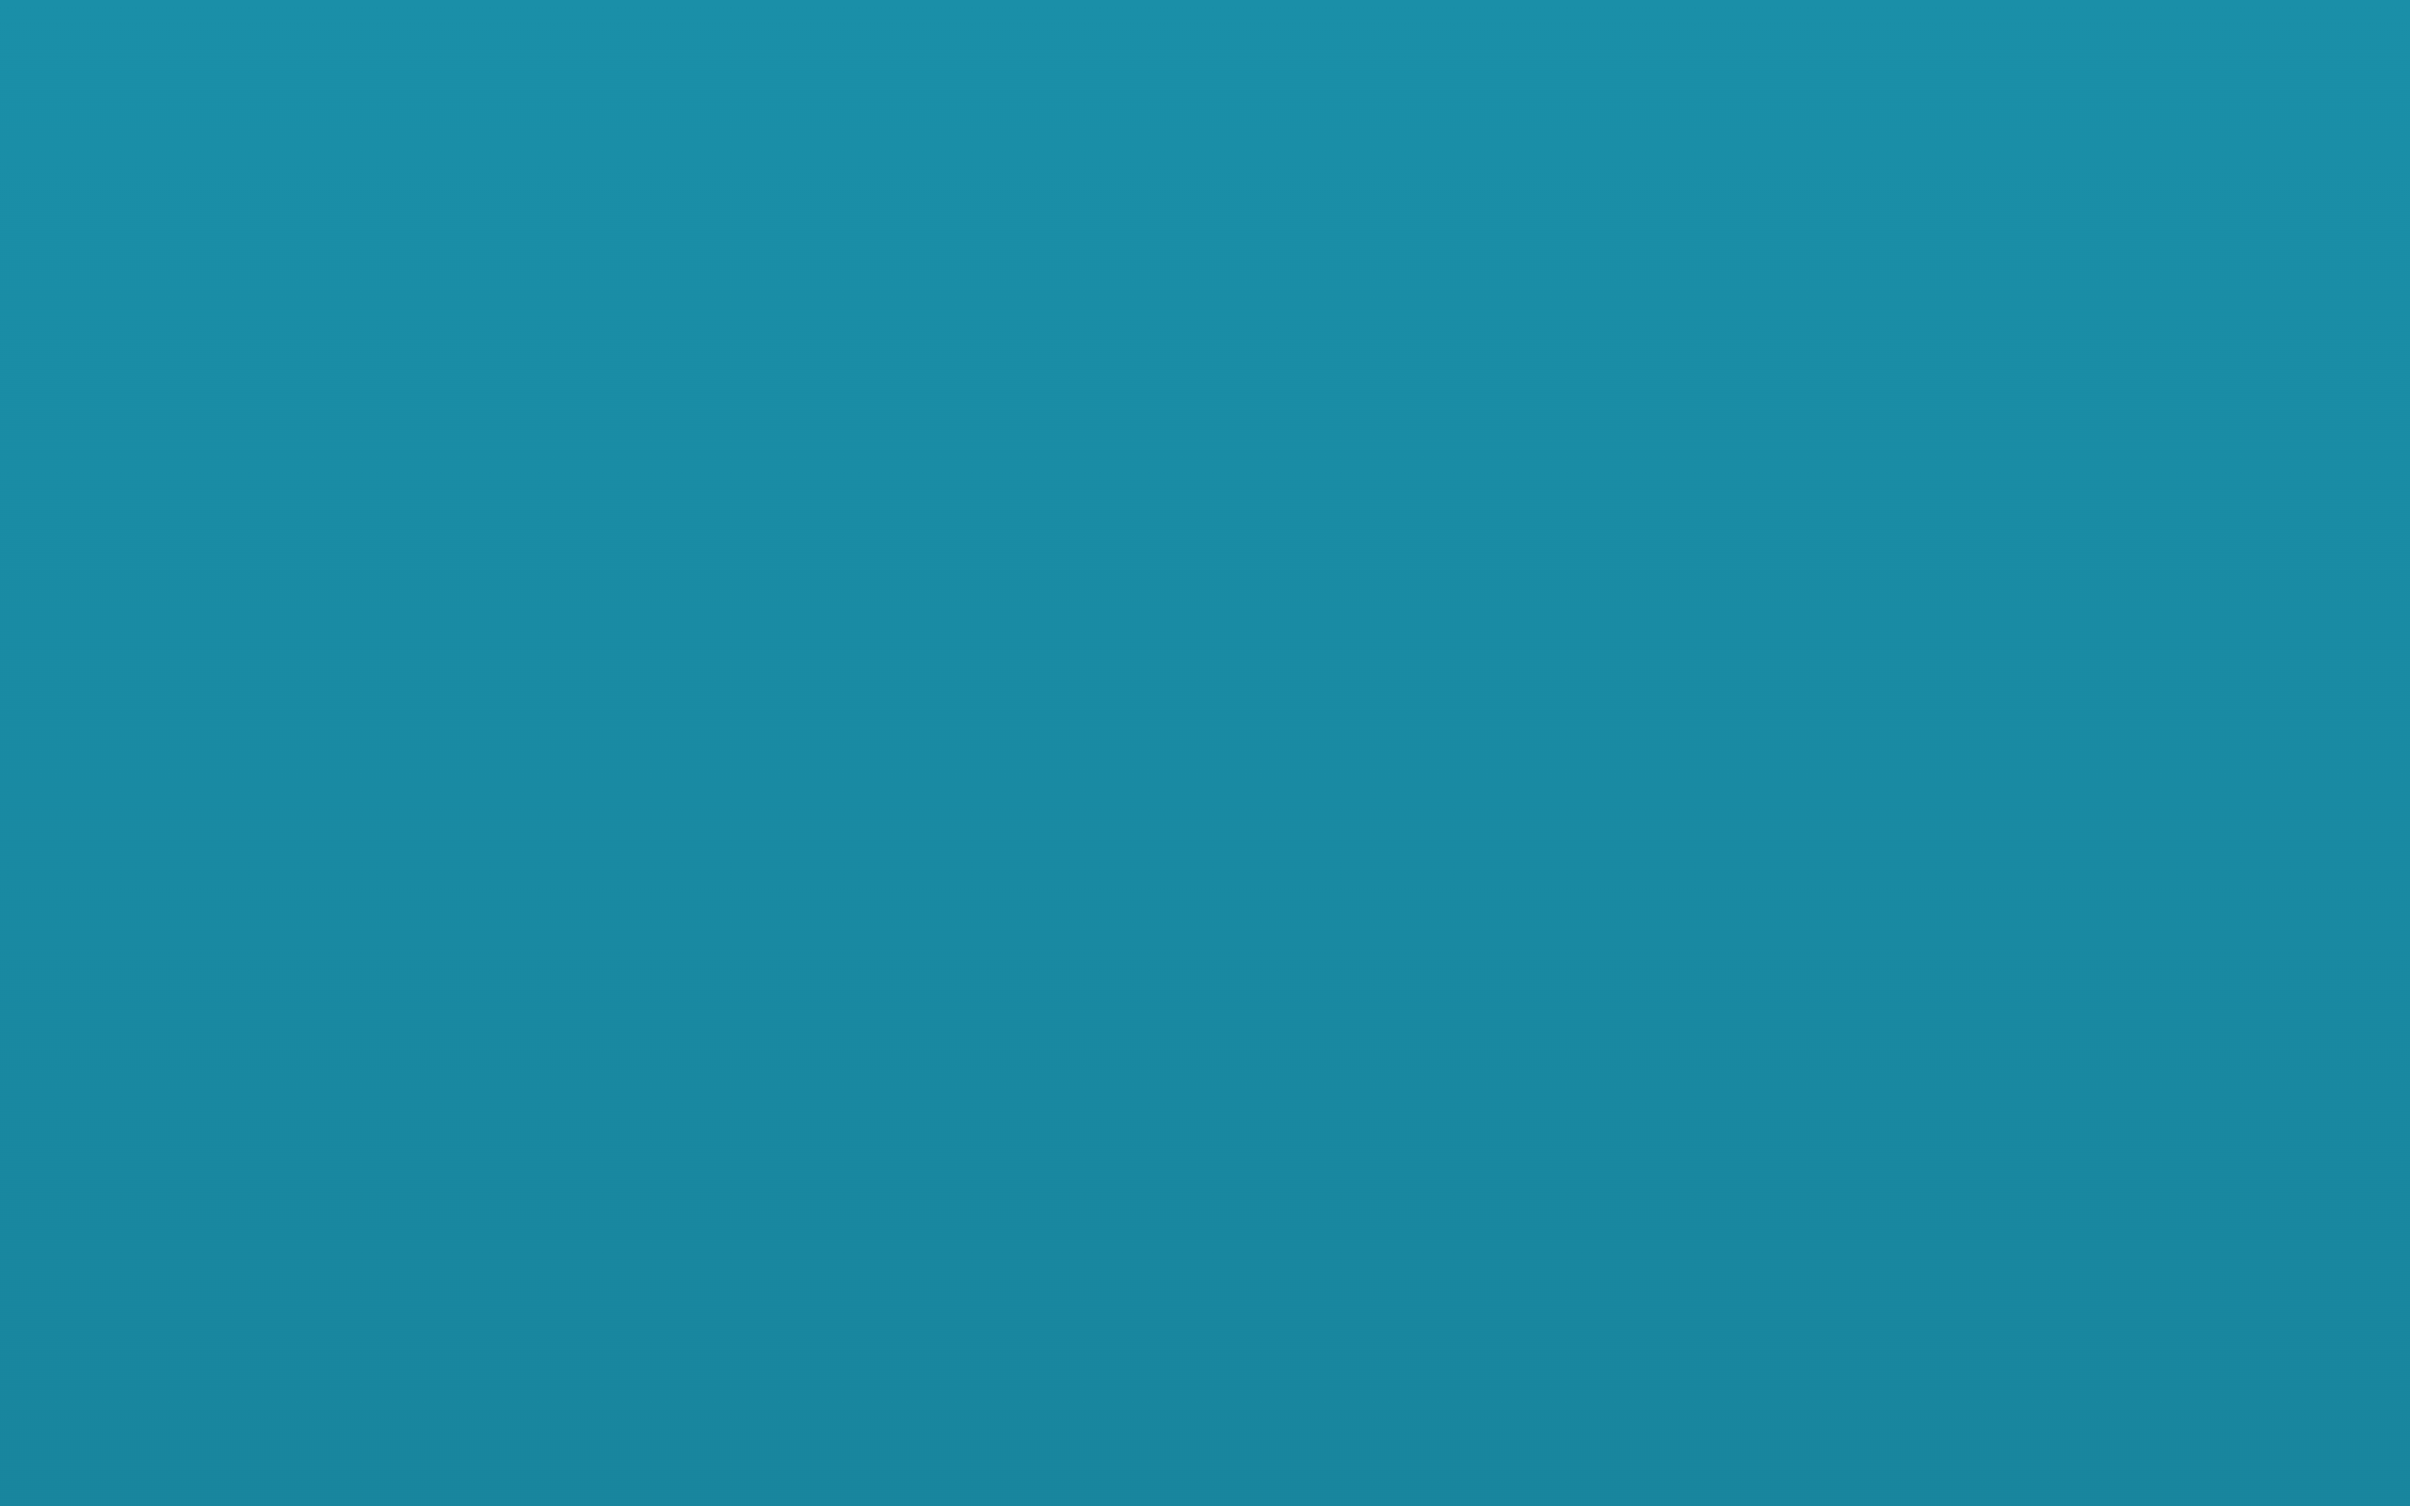
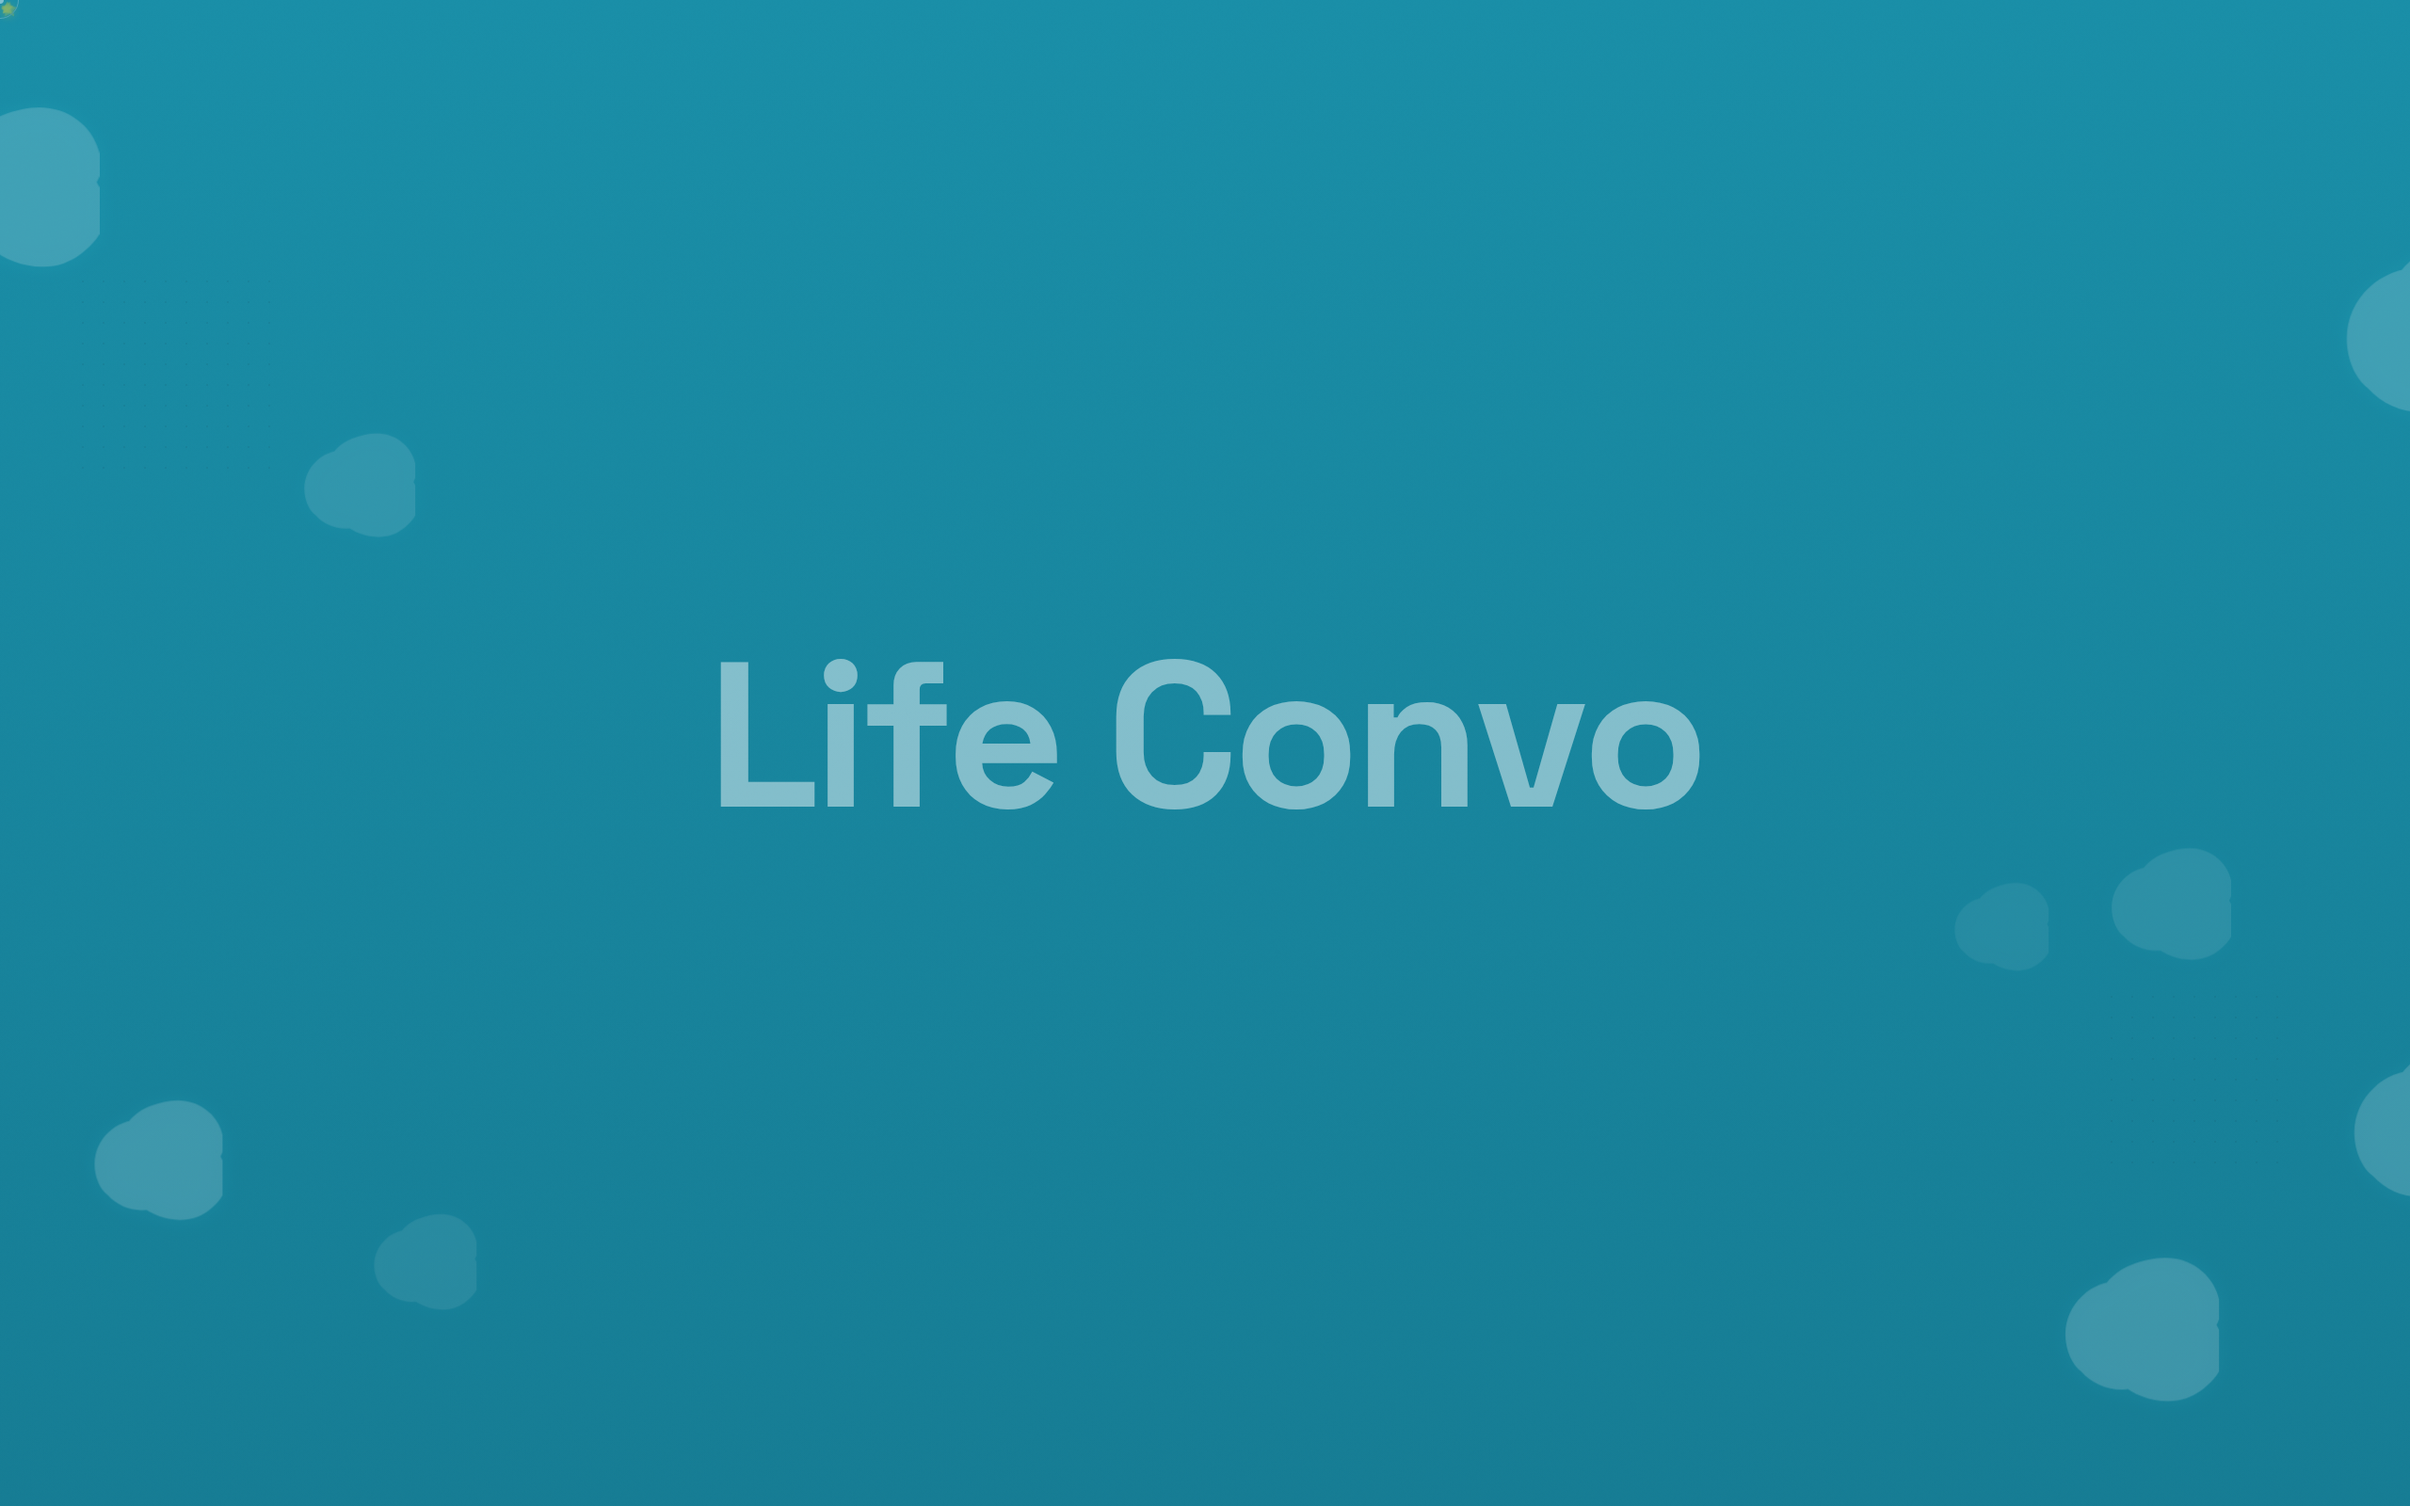
Add LUNO project to featured and all-projects sections, fix LifeConvo screenshot
- LUNO replaces LifeConvo's position in What I Build (LifeConvo moved to end)
- New LUNO screenshot from lunolearn.vercel.app
- Replaced flat LifeConvo placeholder with real capture
- Added LUNO card to upper section of All Projects page
- Add kyza-screen.png, remove unused logo1.png

diff --git a/index.html b/index.html
@@ -141,10 +141,10 @@
             <h2 class="huge-text text-white opacity-20">WHAT I BUILD</h2>
         </div>
 
-        <!-- Horizontal Scroll Wrapper -->
-        <div class="horizontal-scroll-wrapper" id="projects-wrapper">
-            <!-- 4 Projects -> 400vw -->
-            <div class="horizontal-scroll-content flex h-screen w-max" id="projects-content">
+            <!-- Horizontal Scroll Wrapper -->
+            <div class="horizontal-scroll-wrapper" id="projects-wrapper">
+                <!-- 6 Projects -> 600vw -->
+                <div class="horizontal-scroll-content flex h-screen w-max" id="projects-content">
                 
                 <!-- Project 0: Kyza -->
                 <div class="panel w-screen h-screen shrink-0 flex items-center justify-center p-6 md:p-12">
@@ -241,12 +241,36 @@
                     </div>
                 </div>
 
-                <!-- Project 4: LifeConvo -->
+                <!-- Project 4: LUNO -->
                 <div class="panel w-screen h-screen shrink-0 flex items-center justify-center p-6 md:p-12">
                     <div class="w-full h-full md:w-[80vw] md:h-[80vh] bg-light rounded-3xl overflow-hidden relative group hover-target flex items-center justify-center border border-white/10 shadow-2xl">
                         <!-- Background Image -->
                         <div class="absolute inset-0 z-0 scale-100 group-hover:scale-100 transition-transform duration-1000">
-                            <img src="assets/images/lifeconvo-screen.png" class="w-full h-full object-cover opacity-30 group-hover:opacity-60 transition-opacity duration-1000">
+                            <img src="assets/images/luno-screen.png" alt="LUNO Language Learning Platform" class="w-full h-full object-cover opacity-30 group-hover:opacity-60 transition-opacity duration-1000">
+                            <div class="absolute inset-0 bg-darker/80 group-hover:bg-darker/40 transition-colors duration-700"></div>
+                        </div>
+                        
+                        <div class="relative z-20 p-8 md:p-16 w-full text-center">
+                            <span class="text-accent font-black uppercase tracking-[0.3em] text-xs md:text-sm mb-6 block drop-shadow-lg">Gamified Language Learning Platform</span>
+                            <h3 class="text-5xl md:text-8xl font-display font-black tracking-tighter mb-12 drop-shadow-2xl">LUNO</h3>
+                            <div class="flex flex-wrap justify-center gap-6">
+                                <a href="https://lunolearn.vercel.app" target="_blank" class="bg-white text-darker px-8 py-4 rounded-full text-sm font-black uppercase tracking-widest hover:bg-accent hover:text-white transition-colors hover-target flex items-center gap-2">
+                                    <i data-lucide="external-link" class="w-5 h-5"></i> Live Preview
+                                </a>
+                                <a href="https://github.com/KhizarDoingProgramming/LUNO" target="_blank" class="border-2 border-white text-white px-8 py-4 rounded-full text-sm font-black uppercase tracking-widest hover:bg-white hover:text-darker transition-colors hover-target flex items-center gap-2 backdrop-blur-sm">
+                                    <i data-lucide="github" class="w-5 h-5"></i> Source Code
+                                </a>
+                            </div>
+                        </div>
+                    </div>
+                </div>
+
+                <!-- Project 5: LifeConvo -->
+                <div class="panel w-screen h-screen shrink-0 flex items-center justify-center p-6 md:p-12">
+                    <div class="w-full h-full md:w-[80vw] md:h-[80vh] bg-light rounded-3xl overflow-hidden relative group hover-target flex items-center justify-center border border-white/10 shadow-2xl">
+                        <!-- Background Image -->
+                        <div class="absolute inset-0 z-0 scale-100 group-hover:scale-100 transition-transform duration-1000">
+                            <img src="assets/images/lifeconvo-screen.png" alt="LifeConvo Real-Time Community Platform" class="w-full h-full object-cover opacity-30 group-hover:opacity-60 transition-opacity duration-1000">
                             <div class="absolute inset-0 bg-darker/80 group-hover:bg-darker/40 transition-colors duration-700"></div>
                         </div>
                         

diff --git a/projects.html b/projects.html
@@ -78,6 +78,24 @@
         </div>
     </div>
 </div>
+<!-- LUNO (newest live project) -->
+<div class="bg-light rounded-3xl overflow-hidden group hover-target border border-white/5 reveal-up relative">
+    <div class="absolute inset-0 z-0">
+        <img src="assets/images/luno-screen.png" alt="LUNO Language Learning Platform" class="w-full h-full object-cover opacity-10 group-hover:opacity-20 transition-opacity duration-700" />
+    </div>
+    <div class="p-8 relative z-10 flex flex-col h-full justify-between min-h-[300px]">
+        <div>
+            <h3 class="text-3xl font-display font-black mb-2">LUNO</h3>
+            <p class="text-white/60 mb-8">Gamified language learning platform for Russian &amp; German with AI tutoring, spaced repetition, and XP progression.</p>
+        </div>
+        <div class="flex flex-wrap gap-4">
+            <a href="https://lunolearn.vercel.app" target="_blank" class="bg-white text-darker px-6 py-2 rounded-full text-xs font-black uppercase tracking-widest hover:bg-accent hover:text-white transition-colors flex items-center gap-2">
+                <i data-lucide="external-link" class="w-4 h-4"></i> Live Preview</a>
+            <a href="https://github.com/KhizarDoingProgramming/LUNO" target="_blank" class="border border-white/20 text-white px-6 py-2 rounded-full text-xs font-black uppercase tracking-widest hover:bg-white hover:text-darker transition-colors flex items-center gap-2">
+                <i data-lucide="github" class="w-4 h-4"></i> Source</a>
+        </div>
+    </div>
+</div>
 <!-- 1. Kyza -->
             <div class="bg-light rounded-3xl overflow-hidden group hover-target border border-white/5 reveal-up relative">
                 <div class="absolute inset-0 z-0">
